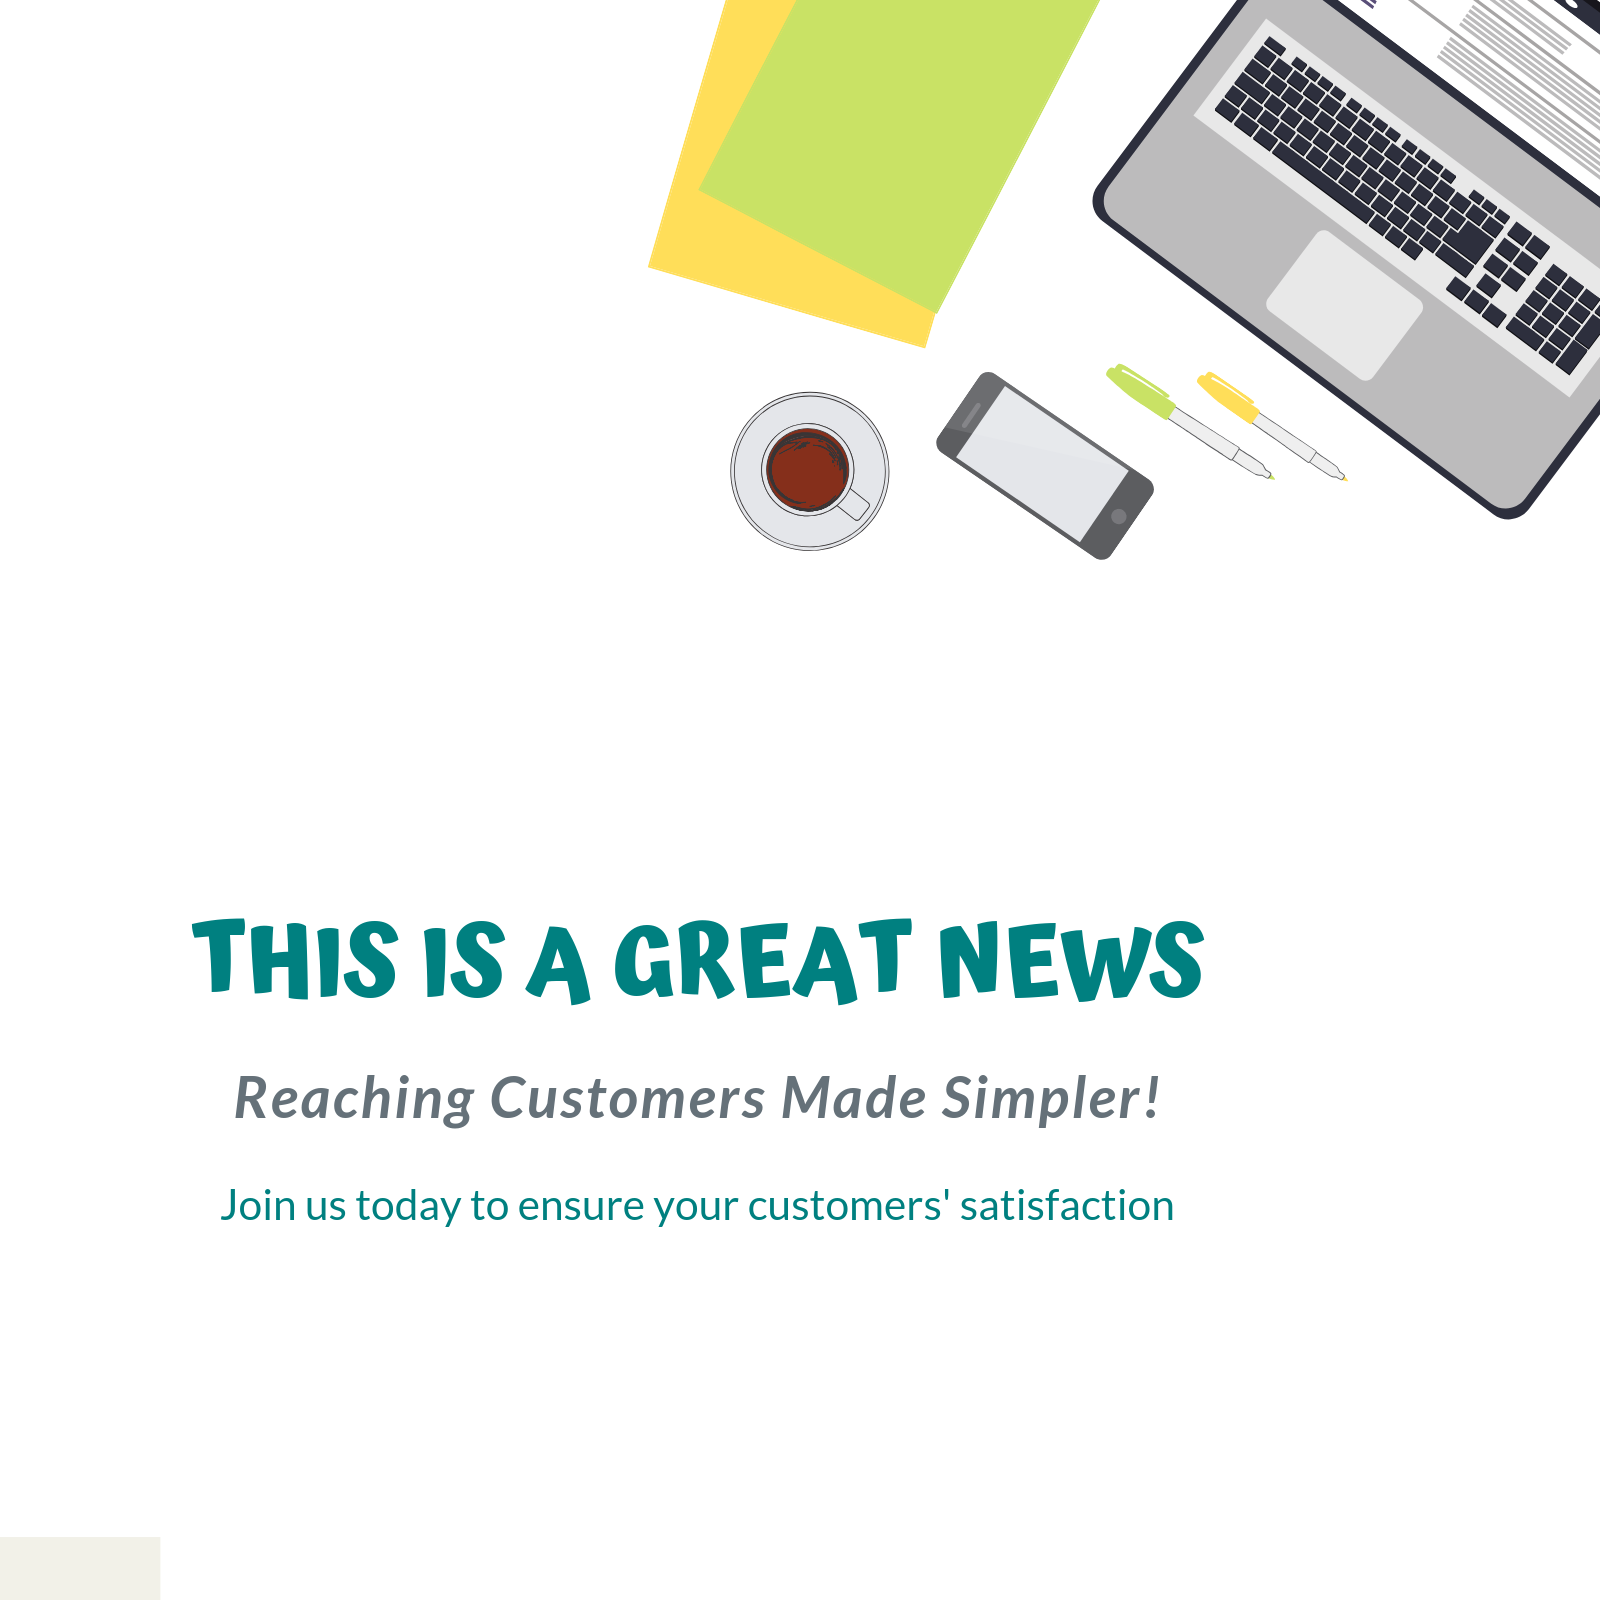
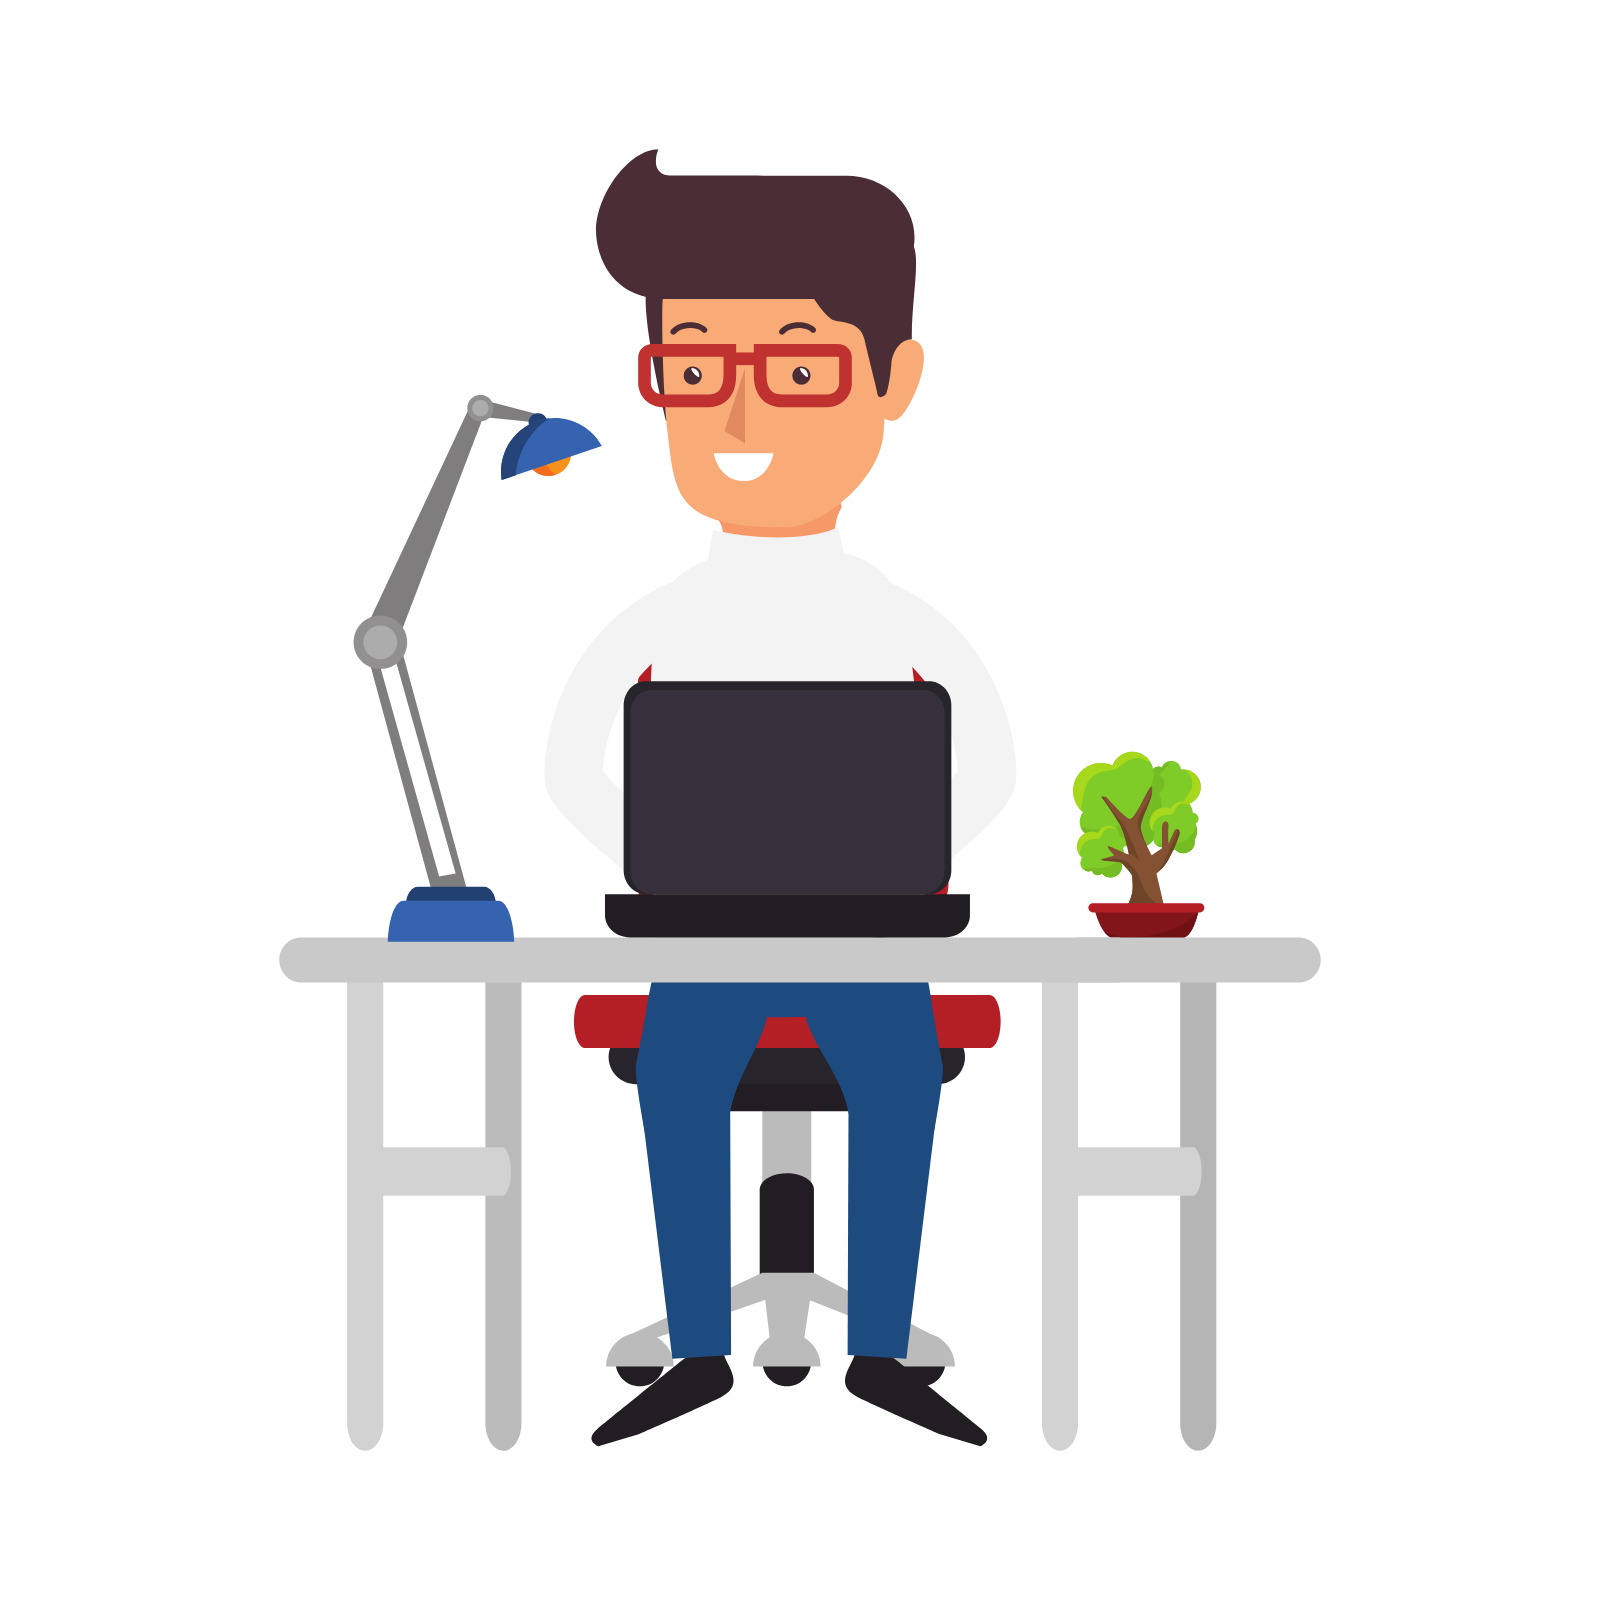
design updates

diff --git a/client/src/components/reusable/Surveys.js b/client/src/components/reusable/Surveys.js
@@ -1,16 +1,27 @@
 import React, { Component } from "react";
 import introPage from "./intoPage.png";
+import introText from "./introText.png";
 import { Image } from "semantic-ui-react";
 
 class Surveys extends Component {
   render() {
     return (
-      <div className='introPageDiv d-flex justify-content-center align-items-center '>
-        <Image
-          className="w-75"
-          src={introPage}
-          alt="itro page survey image"
-        />
+      <div className="introPageMainDiv d-flex justify-content-center align-items-center ">
+        <div className="introPageDiv d-flex justify-content-center align-items-center ">
+          <Image
+            className="w-75"
+            src={introText}
+            alt="itro page survey image"
+          />
+        </div>
+        <div className="introPageDiv d-flex justify-content-center align-items-center ">
+          <Image
+            className="w-75"
+            src={introPage}
+            alt="itro page survey image"
+          />
+        </div>
+        
       </div>
     );
   }

diff --git a/client/src/components/App.js b/client/src/components/App.js
@@ -18,9 +18,9 @@ class App extends Component {
 
     render () {
         return (
-            <div className="container">
+            <div className=" height-100 container">
                 <BrowserRouter>
-                    <div>
+                    <div className=" height-100 d-flex flex-column">
                         <Header/>
                         <Route exact path="/" component={Surveys}></Route>   
                         <Route exact path="/surveys" component={Dashboard}></Route>

diff --git a/client/src/index.js b/client/src/index.js
@@ -12,8 +12,8 @@ import reducers from './reducers'; // this is where reducers are combined and im
 import reduxThunk from 'redux-thunk';
 
 // these two line are just for email testing backend
-import axios from 'axios';
-window.axios = axios;
+// import axios from 'axios';
+// window.axios = axios;
 
 const store = createStore(reducers, {}, applyMiddleware(reduxThunk));
 

diff --git a/client/src/components/Pages/Dashboard.js b/client/src/components/Pages/Dashboard.js
@@ -15,7 +15,7 @@ class Dashboard extends Component {
   
   render() {
     return (
-      <div className="d-flex flex-column mt-5"> 
+      <div className="flex-fill d-flex flex-column justify-content-between mt-5"> 
         <SurveyList />
         <div className="mt-5 mb-5">
           <Link to="/surveys/new">

diff --git a/client/src/components/Pages/SurveyList.js b/client/src/components/Pages/SurveyList.js
@@ -7,7 +7,7 @@ class SurveyList extends Component {
   renderSurveys = () => {
     if (this.props.userSurveys.length === 0) {
       return (
-        <div>
+        <div className="w-75">
           <Image
             className="w-100"
             src={emptySurveysPicture}

diff --git a/client/public/index.css b/client/public/index.css
@@ -1,4 +1,13 @@
 
+
+#root {
+    height: 100%;
+}
+
+.height-100 {
+    height: 100%;
+}
+
 .nav-item {
     font-size: large;
 }

diff --git a/client/public/index_queries.css b/client/public/index_queries.css
@@ -5,4 +5,8 @@
         width: 50%;
     }
 
+    .introPageMainDiv {
+        flex-direction: column;
+    }
+
 }   
